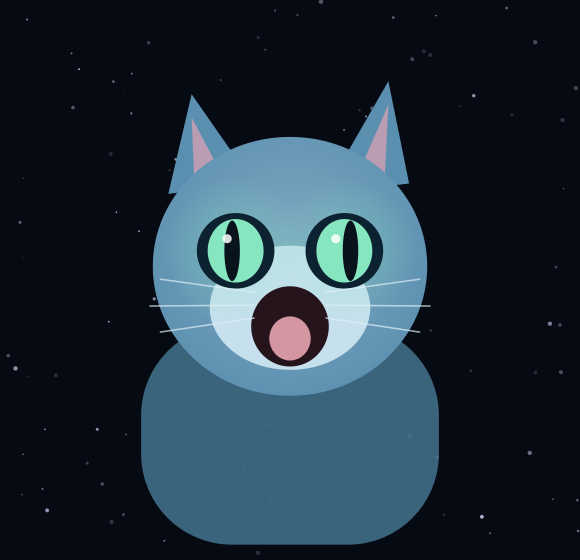
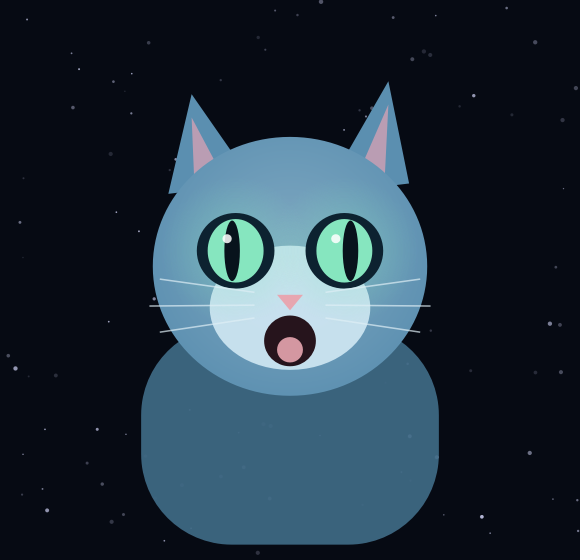
Cat: shrink the talking mouth so it no longer covers the nose
Anchor the open mouth's top edge just below the nose (opens downward only) and reduce its size; refresh docs/images/cat.png.

Changed region(s): [[0.4345, 0.4857, 0.5897, 0.6679]]

diff --git a/vesper/cat.py b/vesper/cat.py
@@ -115,11 +115,12 @@ class CatFace:
             p.drawArc(QRectF(cx, my0 - r2 * 0.2, r2, r2), 180 * 16, 160 * 16)
             p.setPen(Qt.PenStyle.NoPen)
         else:
-            oh = R * (0.1 + 0.5 * mouth)
+            oh = R * (0.06 + 0.34 * mouth)         # smaller; opens downward only
+            mcy = my0 + R * 0.04 + oh              # top edge sits below the nose
             p.setBrush(_qc("#26141c"))
-            p.drawEllipse(QPointF(cx, my0 + oh * 0.4), R * 0.3, oh)
-            p.setBrush(_qc(_NOSE, 0.9))
-            p.drawEllipse(QPointF(cx, my0 + oh * 0.7), R * 0.16, oh * 0.55)
+            p.drawEllipse(QPointF(cx, mcy), R * 0.2, oh)
+            p.setBrush(_qc(_NOSE, 0.9))            # tongue, low in the mouth
+            p.drawEllipse(QPointF(cx, mcy + oh * 0.35), R * 0.1, oh * 0.5)
 
         # whiskers (slight sway)
         wp = QPen(_qc("#dfeef5", 0.7))
